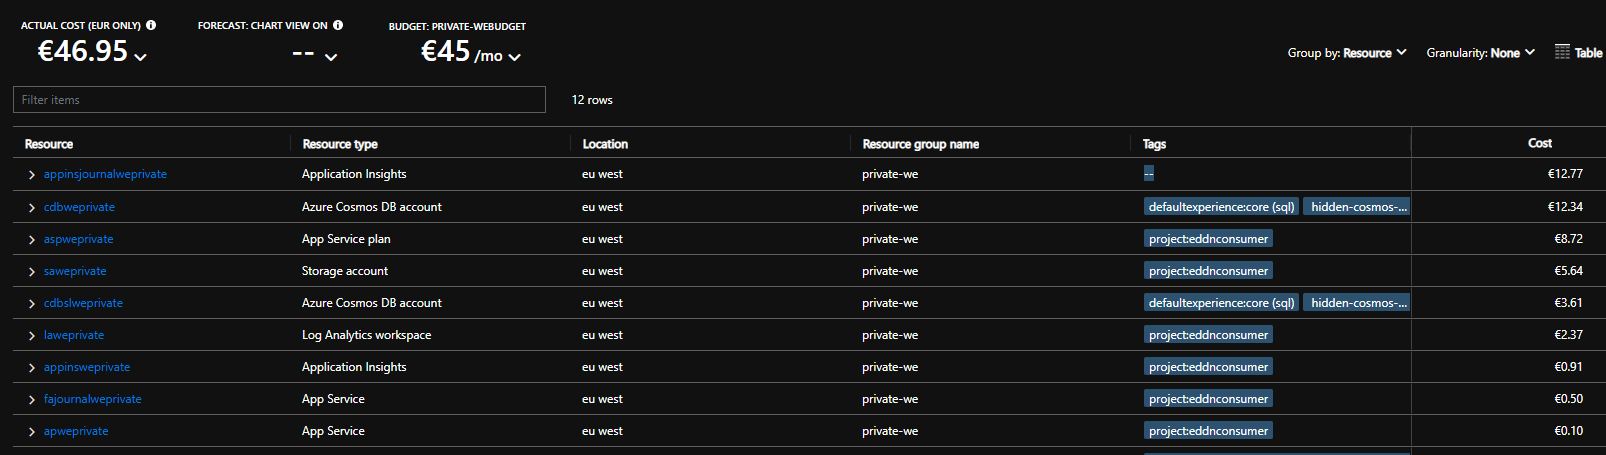
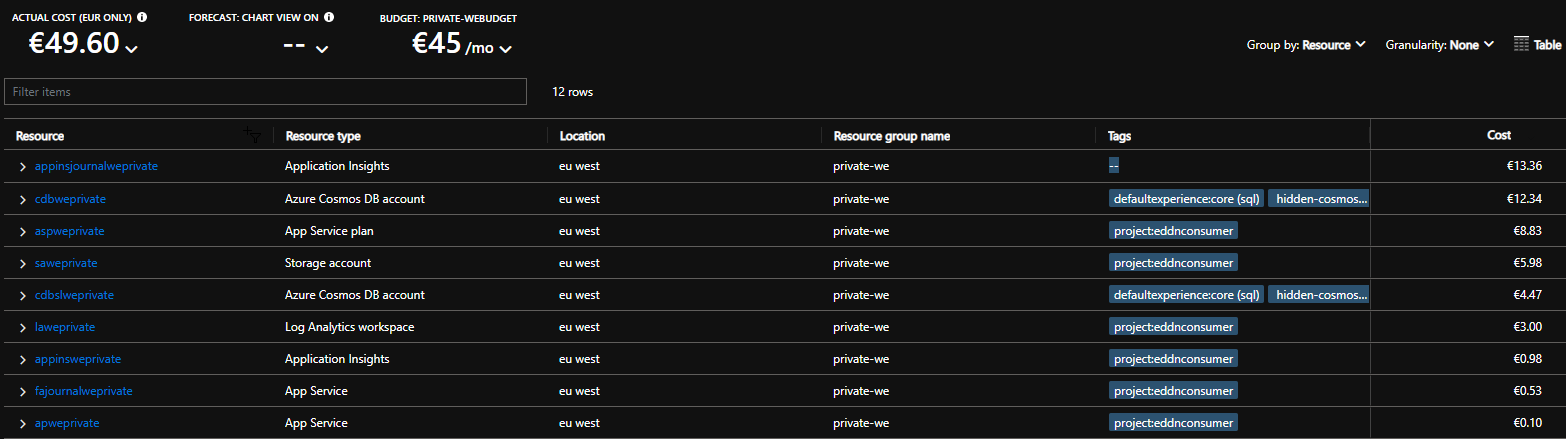
financial part

diff --git a/readme.md b/readme.md
@@ -326,7 +326,7 @@ public class JournalContributor
 
 С входящим биндингом `QueueTrigger` в который рантайм передает нам сообщения из очереди (если они есть). Далее, по типу `Event` мы получаем конкретный обработчик для этого сообщения и... обрабатываем его.
 
-Здесь, на самом деле, хочу остановиться только на конструкторе. Все дело во внедрении зависимости - оно не совсем такое, каким мы его привыкли видеть в большинсвет dotnet приложений. Есть привычный нам класс `Startup` и даже метод `Configure`, но стартап должен наследовать класс `FunctionStartup` и должна быть указана сборка (`assembly`):
+Здесь, на самом деле, хочу остановиться только на конструкторе. Все дело во внедрении зависимости - оно не совсем такое, каким мы его привыкли видеть в большинстве dotnet приложений. Есть привычный нам класс `Startup` и даже метод `Configure`, но стартап должен наследовать класс `FunctionStartup` и должна быть указана сборка (`assembly`):
 ```csharp
 using JournalContributor.Settings;
 using Microsoft.Extensions.Configuration;
@@ -361,9 +361,9 @@ namespace JournalContributor
     }
 }
 ```
-Ну а дальше DI настраивается вполне привычно и думаю пояснений не требует.
+Ну а дальше DI настраивается вполне привычно и думаю пояснений не требует. Хочу еще напомнить, почему родилась зависимость от `CosmosClient` в конструкторе функции: у меня не получилось внедрить несколько однотипных биндингов (`CosmosDB`). Разных? Пожалуйста. А вот 2 и более выходных биндинга на разные коллекции в `CosmosDB` - увы, не смог. У кого получится, просьба поделиться.
 
-Вернемся к функции. ТТам, разумеется есть фактори, которая есть просто `switch` с порождением нужного процессора:
+Вернемся к функции. Там, разумеется есть фактори, которая есть просто `switch` с порождением нужного процессора:
 ```csharp
 public IEventTypeProcessor GetProcessor(JournalMessage journalMessage) => journalMessage.Event switch
         {
@@ -426,9 +426,56 @@ Stream-log нашей функции: реквесты идут, ошибок н
 Заглянем в космос. За время написания статьи накопилось 145к звездных систем. Это крохи по сравнению с такими гигантами как EDSM, но и мы всего пару дней как открылись =)
 
 ![Bosy example](pictures/body_example.PNG)
-Последнее добавленное в базу звездное тело. Check.
+Последнее добавленное в базу небесное тело. Check.
 
 Хватит наверное скриншотов. Все подсистемы запущены и работают штатно. Пора разобраться сколько на это все будет стоить.
 ## Финансовая часть
-Моя не любимая. 
+Моя не любимая. Давайте сразу обозначим допустимы бюджет. Так как именно из-за бюджетных ограничений были приняты некоторые архитектурные допущения.
+
+В моем случае месячный бюджет 45 евро. Обусловлено это тем, что у меня есть MSDN подписка, дающая мне именно 45 евро в месяц. Так что я вписывался в эту цифру.
+
+И еще одно допущение - предоставить сейчас точные цифры за отчетный период я не могу. Во-первых - он еще не истек, во-вторых - текущие показатели "загрязнены" экпериментами во время разработки. Но мы постараемся апроксимировать и экстраполировать текущую ситуацию на отчетный период.
+
+![Resource group costs](pictures/costs1.PNG)
+Взглянем на стоимость всей ресурсной группы. Эта цена за 2 недели работы полной инфраструктуры. Сразу бросается в глаза стоимость `appinsjournalweprivate` которая выше всех. А это всего лишь логи `Function App`. И тут я обнаружил первый серьезный промах - не настроил уровни логирования для фунции, а по умолчанию она логирует каждый чих. Умножьте это на количество запусков функции в час и получите миллион трейсов\час. За это надо платить:
+![Function logs count](pictures/logs_count_before.PNG)
+После выявления сего факта (и смирения с тем что придется докидывать из своего кармана), были настроены уровни логирования в файле `host.json` проекта `JournalContributor`:
+```json
+{
+  "version": "2.0",
+  "logging": {
+    "applicationInsights": {
+      "samplingExcludedTypes": "Request",
+      "samplingSettings": {
+        "isEnabled": true
+      }
+    },
+    "logLevel": {
+      "default": "Information",
+      "Host": "Error",
+      "Function": "Error",
+      "Host.Aggregator": "Information"
+    }
+  }
+}
+```
+Спустя некоторе время можно наблюдать существенное улучшение ситуации:
+![Function logs count decrease](pictures/logs_count_after.PNG)
+Теперь вот жду пока спадет прогноз (пока он показывает стоимость 140 евро за текущий отчетный период). В идеале стоимость должна упасть до пары-тройки евро. Посмотрите на скрин с ресурсной группой еще раз - там есть ресурс `appinsweprivate` - а это логи для нашего `WebJob`. И его цена на данный момент 0.98 евро.
+
+Так же из расчета будущих затрат стоит убрать ресурс `cdbweprivate` - это старый аккаунт `CosmosDB` с `Provisioned Mode` в 400 RU/s. Он проработал несколько дней и сгенерил себе такую цену. Его заменил ресурс `cdbslweprivate` - `Serverless mode CosmosDB`. И стоит он на данный момент 4.47 евро.
+
+Еще один ресурс от которого я избавился - `laweprivate`. Это `Log Analytics Workspace`, который я планировал использовать для хранения логов, анализа производительности запросов, индексов и т.п. `CosmosDB`. Но, осознав, что он немного выбивается из бюджета, решил его пока убрать. Пока.
+
+Сделав эти допущения и подсчитав стоимость оставшихся ресурсов, получим цифру **20.89 евро за 2 недели**. Умножив на 2 и добавив немного запаса для надежности (ну да, совсем немного), примерно и получим требуемый бюджет в **45 евро в месяц**, плюс-минус.
+
+Хочу заметить, что стоимость не должна сильно расти с течением времени. Во-первых. Время хранения логов в `appinsights` - 3 месяца. Это значение по умолчанию и оно максимальное, можно уменьшить. Так же можно добавить сэмплинг, чтобы хранить только определенный % одинаковых записей в логах, а не вообще все. Так что из-за ограничения на время хранения, стоимость накопленная за 3 месяца - будет оставаться постоянной (если не менять уровни логирования).
+
+Во-вторых. Стоимость `CosmosDB` зависит в основном от использованных RU/s (еще есть стоимость хранилища, но для наших объемов ее можно не учитывать совсем) и расчет идет за *каждый миллион RU/s* ([Pricing](https://azure.microsoft.com/en-us/pricing/details/cosmos-db/)), например за сутки я использовал вот столько:
+![Ru/s hour consumption](pictures/cdb_rus_24hour.PNG)
+Этот показатель зависит от скорости обработки сообщений и от их количества в EDDN. А значит, фактически, от количества игроков в Elite: Dangerous. Если количество игроков будет более-менее "не расти" - удорожания не произойдет. Хотя, конечно, с выходом нового глобального DLC Odyssey я надеюсь на прирост игроков, ведь от этого так же зависит размер накапливаемых мной данных. Так что тут не все так однозначно.
+
+Так же, количество игроков может повлиять на стоимость `Function App` и `Storage Account`, но там будут цифры в пределах пары евро, так что я за это пока не волнуюсь.
+
+На этом с финансами пожалуй все. Пора подвести итоги и поразмышлять о будущем.
 ## Выводы
